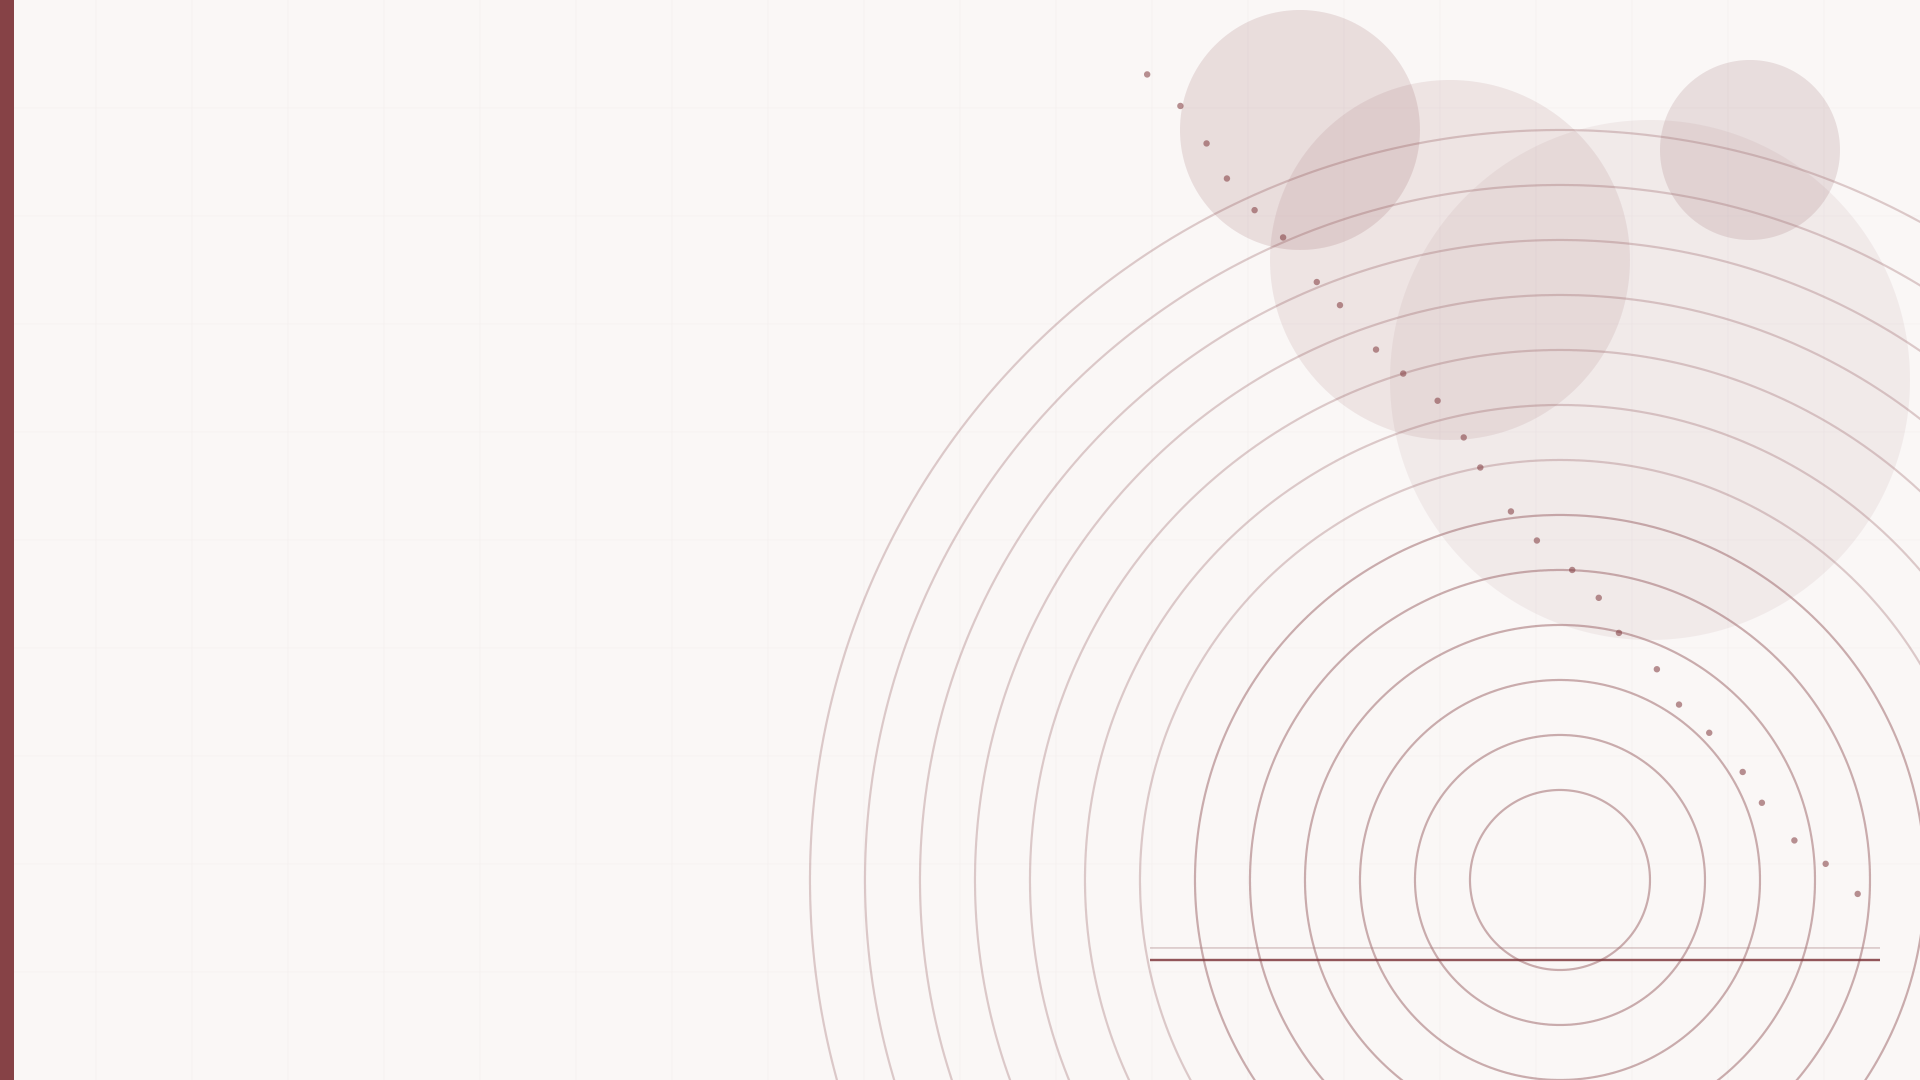
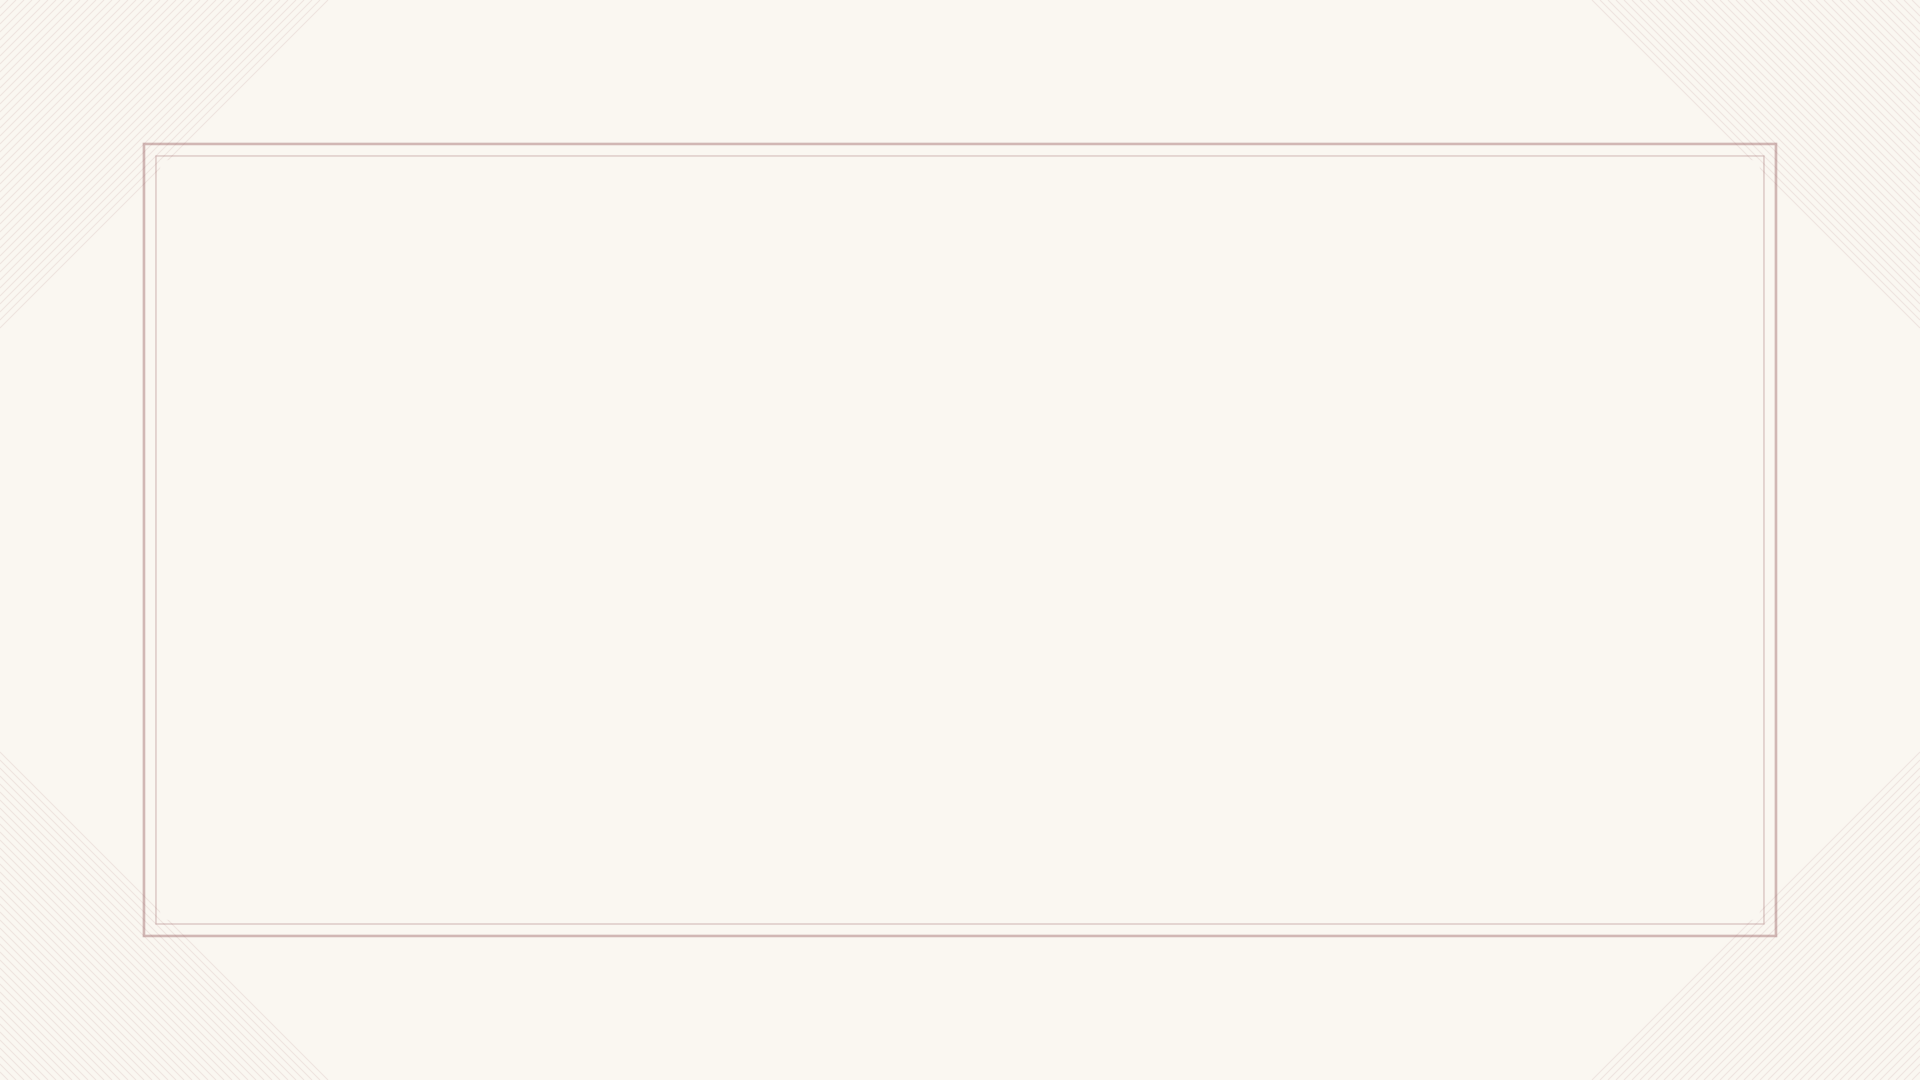
Academic: university-press redesign (book-plate frame, centered small-caps title, roman-numeral dividers)
Second design pass: the background becomes a book-plate — warm cream paper
with a double hairline border frame and light engraver's corner hatch; the
title page is a centered composition with letterspaced small-caps title
between double-rule ornaments, italic subtitle and a centered byline stack;
content frames carry a bold dark title with the section label in letterspaced
small caps on the same baseline over a full-width double hairline; section
dividers pair a roman numeral with white double rules on full-bleed maroon;
the footer is a centered book folio. Tables move to double-hairline
\specialrule scholarship style (colored header fills stay navy's identity),
captions become centered Figure lines, logo appears on the title page only.
Wave-1 correctness preserved; both metadata variants compile clean.

diff --git a/templates/academic/main.tex b/templates/academic/main.tex
@@ -56,27 +56,42 @@
 \let\mathbf\relax % avoid a redefinition clash between bm/beamer and newpxmath
 \usepackage{newpxmath}
 
-% NOTE: the theme auto-inserts a highlighted-TOC divider page at every
-% \section, and prints "<number> <section name>" under each frame title
-% (suppressed automatically before the first \section). Do not redefine these.
+% NOTE: the theme auto-inserts a full-bleed maroon section divider page
+% (roman numeral over a short rule + section name in small caps) at every
+% \section, and prints "<roman numeral> · <section name>" in small caps at
+% the right end of each frame-title line (suppressed automatically before
+% the first \section). Do not redefine these.
 
-% Title page: skips subtitle/author/institute lines cleanly when left empty.
+% Title page: classic book title page -- centered, letterspaced small caps
+% between short double-hairline ornaments, on the framed warm-paper
+% background. Skips subtitle/author/institute lines cleanly when left empty.
 \makeatletter
 \def\academic@emptyauthor{\def\inst{\beamer@insttitle}\def\and{\beamer@andtitle}}
 \setbeamertemplate{title page}{
-    \hspace{-12mm}
-    \begin{beamercolorbox}[wd=0.72\textwidth, sep=10pt, leftskip=8mm]{title}
-        {\color{maincolor}\rule{2cm}{0.6pt}\par}
-        \vskip10pt
-        {\usebeamerfont{title}\inserttitle\par}
-        \ifx\insertsubtitle\@empty\else
-            \vskip8pt{\usebeamerfont{subtitle}\insertsubtitle\par}\fi
-        \ifx\insertauthor\academic@emptyauthor\else
-            \vskip14pt{\usebeamerfont{author}\usebeamercolor[fg]{author}\insertauthor\par}\fi
-        \ifx\insertinstitute\@empty\else
-            \vskip4pt{\usebeamerfont{institute}\usebeamercolor[fg]{author}\insertinstitute\par}\fi
-        \vskip10pt{\usebeamerfont{date}\usebeamercolor[fg]{date}\insertdate\par}
-    \end{beamercolorbox}
+    % fixed 13mm minimum top/bottom margins keep every line inside the 12mm
+    % double-rule border frame of the background, whatever fields are filled
+    \vbox to \dimexpr\textheight-3pt\relax{%
+        \vskip13mm plus 0.55fill
+        \begingroup\centering
+            \pgfuseimage{titlelogo}\par
+            \vskip2.5mm
+            \deckrules{maincolor!70}{50mm}\par
+            \vskip4.5mm
+            {\usebeamerfont{title}\usebeamercolor[fg]{title}%
+             \addfontfeatures{LetterSpace=7.0}\scshape\inserttitle\par}
+            \ifx\insertsubtitle\@empty\else
+                \vskip2mm{\usebeamerfont{subtitle}\itshape\color{black!60}\insertsubtitle\par}\fi
+            \vskip4.5mm
+            \deckrules{maincolor!70}{50mm}\par
+            \vskip3.5mm
+            \ifx\insertauthor\academic@emptyauthor\else
+                {\usebeamerfont{author}\usebeamercolor[fg]{author}\insertauthor\par}\vskip1mm\fi
+            \ifx\insertinstitute\@empty\else
+                {\usebeamerfont{institute}\scshape\color{black!60}\insertinstitute\par}\vskip1mm\fi
+            {\usebeamerfont{date}\usebeamercolor[fg]{date}\insertdate\par}
+        \endgroup
+        \vskip13mm plus 0.75fill minus 8pt
+    }%
 }
 \makeatother
 
@@ -109,8 +124,9 @@
 % =============================================================================
 % SECTION 1 (EXAMPLE)
 % IMPORTANT: declare \section{...} BEFORE the content frames of each part.
-% The theme then automatically inserts a full-color divider page with the
-% current section highlighted -- do NOT build any manual transition frames.
+% The theme then automatically inserts a full-bleed maroon divider page
+% (roman numeral + section name between short rules) -- do NOT build any
+% manual transition frames.
 % =============================================================================
 \section{Title of Part One}
 
@@ -118,7 +134,7 @@
 % CONTENT FRAME TEMPLATE (LLM MUST USE THIS STRUCTURE)
 % =============================================================================
 % Content page example 1: Text-left, figure-right layout
-\begin{frame}{Content Example: Text Left, Figure Right}
+\begin{frame}{Text Left, Figure Right}
 \framesubtitle{} % keep empty; framesubtitle template will show section info automatically
 \small
 \begin{columns}[T]
@@ -167,7 +183,7 @@ State the central message of this slide in one sentence.
 \end{frame}
 
 % Content page example 2: Text-top, figure-bottom layout
-\begin{frame}{Content Example: Text Top, Figure Bottom}
+\begin{frame}{Text Top, Figure Bottom}
 \framesubtitle{} % automatically inherits section info
 \small
 
@@ -227,12 +243,14 @@ Keep the text concise so the wide chart remains readable.
 \end{tikzpicture}\par}
 
 \vspace{0.2em}
-\hspace*{1.9cm}{\scriptsize\color{darkgray!80}\emph{Source: data compiled from the source document.}}
+% Classic centered figure caption -- REQUIRED under every full-width chart:
+% italic "Figure" + em-dash + one short sentence, centered, scriptsize.
+{\centering\scriptsize\color{black!55}\emph{Figure} --- Monthly sample level, compiled from the source document.\par}
 \end{frame}
 
 
 % Content page example 3: Figure-left, text-right layout
-\begin{frame}{Content Example: Figure Left, Text Right}
+\begin{frame}{Figure Left, Text Right}
 \framesubtitle{} 
 \small
 \begin{columns}[c] % [c] = vertically centered; use [T] for top alignment if text is long
@@ -243,19 +261,19 @@ Keep the text concise so the wide chart remains readable.
     \begin{tikzpicture}[
         font=\scriptsize,
         box/.style={
-            draw=maincolor, fill=maincolor!12, rounded corners=2pt,
+            draw=maincolor, fill=maincolor!12,   % squared corners: bookish, not app-like
             minimum height=0.62cm, text width=1.35cm, align=center
         },
         layer title/.style={font=\scriptsize\bfseries, text=maincolor}
     ]
         % Data layer (panel top leaves reserved space for the caption)
-        \fill[maincolor!6, rounded corners=3pt] (-0.25,1.05) rectangle (4.85,2.60);
+        \fill[maincolor!6] (-0.25,1.05) rectangle (4.85,2.60);
         \node[layer title, anchor=north west] at (-0.15,2.55) {Data layer};
         \node[box] (s1) at (0.7,1.50) {Sensors};
         \node[box] (s2) at (2.5,1.50) {Ingest};
         \node[box] (s3) at (4.2,1.50) {Store};
         % Decision layer
-        \fill[maincolor!6, rounded corners=3pt] (-0.25,-1.25) rectangle (4.85,0.70);
+        \fill[maincolor!6] (-0.25,-1.25) rectangle (4.85,0.70);
         \node[layer title, anchor=north west] at (-0.15,0.65) {Decision layer};
         \node[box] (p1) at (0.7,-0.30) {Feature};
         \node[box] (p2) at (2.5,-0.30) {Model};
@@ -264,7 +282,7 @@ Keep the text concise so the wide chart remains readable.
         % they never slice through captions or other boxes)
         \draw[->, thick, maincolor] (s1) -- (s2);
         \draw[->, thick, maincolor] (s2) -- (s3);
-        \draw[->, thick, maincolor, rounded corners=2pt]
+        \draw[->, thick, maincolor]
             (s2.south) -- (2.5,0.875) -- (-0.65,0.875) -- (-0.65,-0.30) -- (p1.west);
         \draw[->, thick, maincolor] (p1) -- (p2);
         \draw[->, thick, maincolor] (p2) -- (p3);
@@ -285,7 +303,7 @@ Keep the text concise so the wide chart remains readable.
         \item Domain-specific data analysis
     \end{itemize}
 
-    \vspace{1em}
+    \vspace{0.2em}
     \textbf{Key Findings:}
     \begin{enumerate}
         \item \ctextbf{Observation 1}: The figure on the left shows\ldots
@@ -296,7 +314,7 @@ Keep the text concise so the wide chart remains readable.
 
 % Content page example 4: Definition block + displayed equation
 % Use this pattern whenever the source document is math-heavy.
-\begin{frame}{Content Example: Definition and Key Equation}
+\begin{frame}{Definition and Key Equation}
 \framesubtitle{}
 \small
 \begin{block}{Definition (state the core assumption or theorem here)}
@@ -329,16 +347,19 @@ The key relation then follows directly:
 \centering
 \renewcommand{\arraystretch}{1.3}
 \footnotesize
-% Header: maincolor fill + white bold text; body: plain rows + \bottomrule.
-% Use \rowcolors zebra striping ONLY for tables with 6+ rows, and then add
-% \noalign{\vskip2pt} before \bottomrule to keep the stripe off the rule.
-\begin{tabular}{p{0.2\textwidth} c c c}
-\rowcolor{maincolor}
-\textcolor{white}{\textbf{Metric}} & \textcolor{white}{\textbf{A}} &
-\textcolor{white}{\textbf{B}} & \textcolor{white}{\textbf{Conclusion}} \\
+% Classic scholarly table -- NO colored fills anywhere: double hairline
+% (2 x 0.4pt) above and below, maroon bold header text, \midrule under the
+% header. Use \rowcolors{...}{maincolor!5}{white} zebra ONLY for 6+ rows.
+% Columns: l/c with natural widths; switch a column to p{0.3\textwidth}
+% only when its cells must wrap.
+\begin{tabular}{l c c l}
+\specialrule{0.4pt}{0pt}{1.5pt}\specialrule{0.4pt}{0pt}{3pt}
+{\color{maincolor}\textbf{Metric}} & {\color{maincolor}\textbf{A}} &
+{\color{maincolor}\textbf{B}} & {\color{maincolor}\textbf{Conclusion}} \\
+\midrule
 Item 1 & 12 & 15 & Room for improvement \\
 Item 2 & 20 & 18 & Stable \\
-\bottomrule
+\specialrule{0.4pt}{3pt}{1.5pt}\specialrule{0.4pt}{0pt}{0pt}
 \end{tabular}
 \end{frame}
 
@@ -376,6 +397,15 @@ minimum height=0.95cm,text width=1.9cm,align=center}
 \column{0.52\textwidth}
 Left column for argumentation, definitions, and derivations.
 
+% List hierarchy demo: round maroon bullets, open-circle subitems.
+\begin{itemize}
+    \item Main point set with the round maroon bullet
+    \begin{itemize}
+        \item Supporting detail set with the open-circle subitem
+    \end{itemize}
+    \item Second main point, kept to a single line
+\end{itemize}
+
 \column{0.43\textwidth}
 Right column for action items, illustrations, or comparisons.
 \end{columns}
@@ -391,16 +421,27 @@ You MUST:
 \item Delete all [STYLE REF] frames and this instruction frame
 \item Replace all placeholders with real content
 \item Declare \texttt{\textbackslash section\{...\}} before the content frames of each
-      part; the theme auto-inserts a highlighted divider page at every
-      \texttt{\textbackslash section} -- NEVER build manual transition or outline frames
+      part; the theme auto-inserts a maroon divider page (roman numeral +
+      section name) at every \texttt{\textbackslash section} -- NEVER build manual
+      transition or outline frames
 \item PAGE BUDGET: 12--18 PDF pages total = title + outline + Q\&A (3 pages)
       + one auto divider per section + 2--4 content frames per section,
       for 3--5 sections
 \item Lay out every content page with one of the demonstrated example layouts;
       full-width (no columns) is REQUIRED for charts with more than 6 categories
+\item Keep frame titles short (roughly 35 characters or fewer) so they stay on
+      one line beside the small-caps section label
+\item Close every full-width chart with the demonstrated centered caption
+      line: italic \texttt{\textbackslash emph\{Figure\}} + em-dash + one short
+      sentence, centered, scriptsize (copy the example exactly)
+\item Set every table in the classic style shown: double hairline
+      (\texttt{\textbackslash specialrule}) above and below, maroon bold header text,
+      \texttt{\textbackslash midrule} under the header -- NEVER a colored header fill
 \item In every chart, each \texttt{\textbackslash addplot} coordinate must reuse exactly
       the labels declared in \texttt{symbolic x coords}, and keep
       \texttt{enlarge x limits} AFTER the axis-line keys
+\item Keep TikZ boxes square-cornered (no \texttt{rounded corners}) to match the
+      pack's classic look
 \item Keep information density high (no empty slides)
 \item Output FULL LaTeX code only
 \end{itemize}
